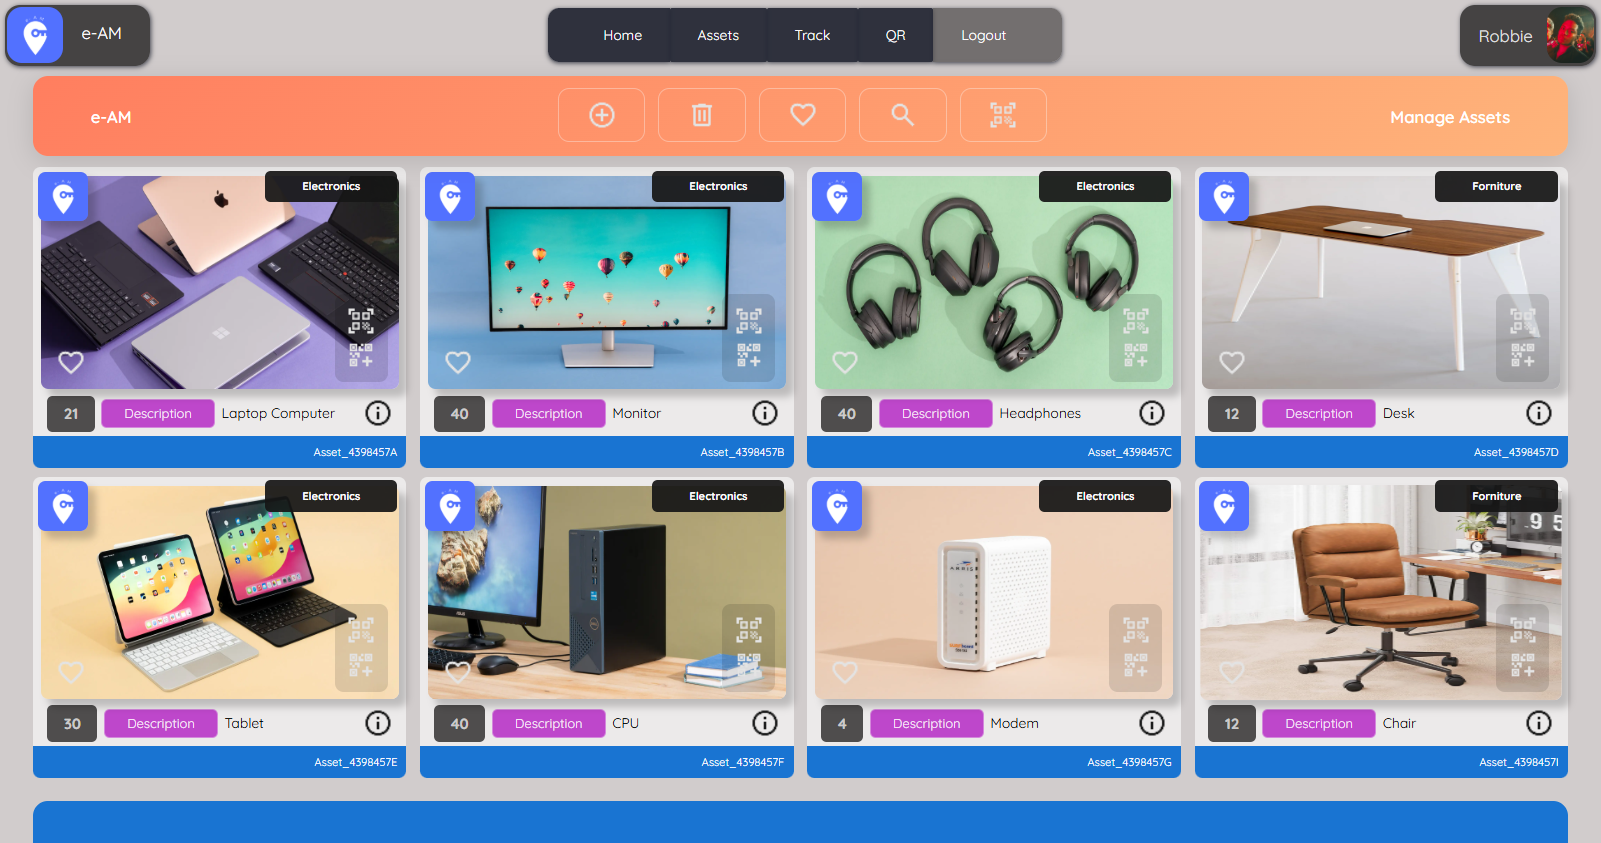
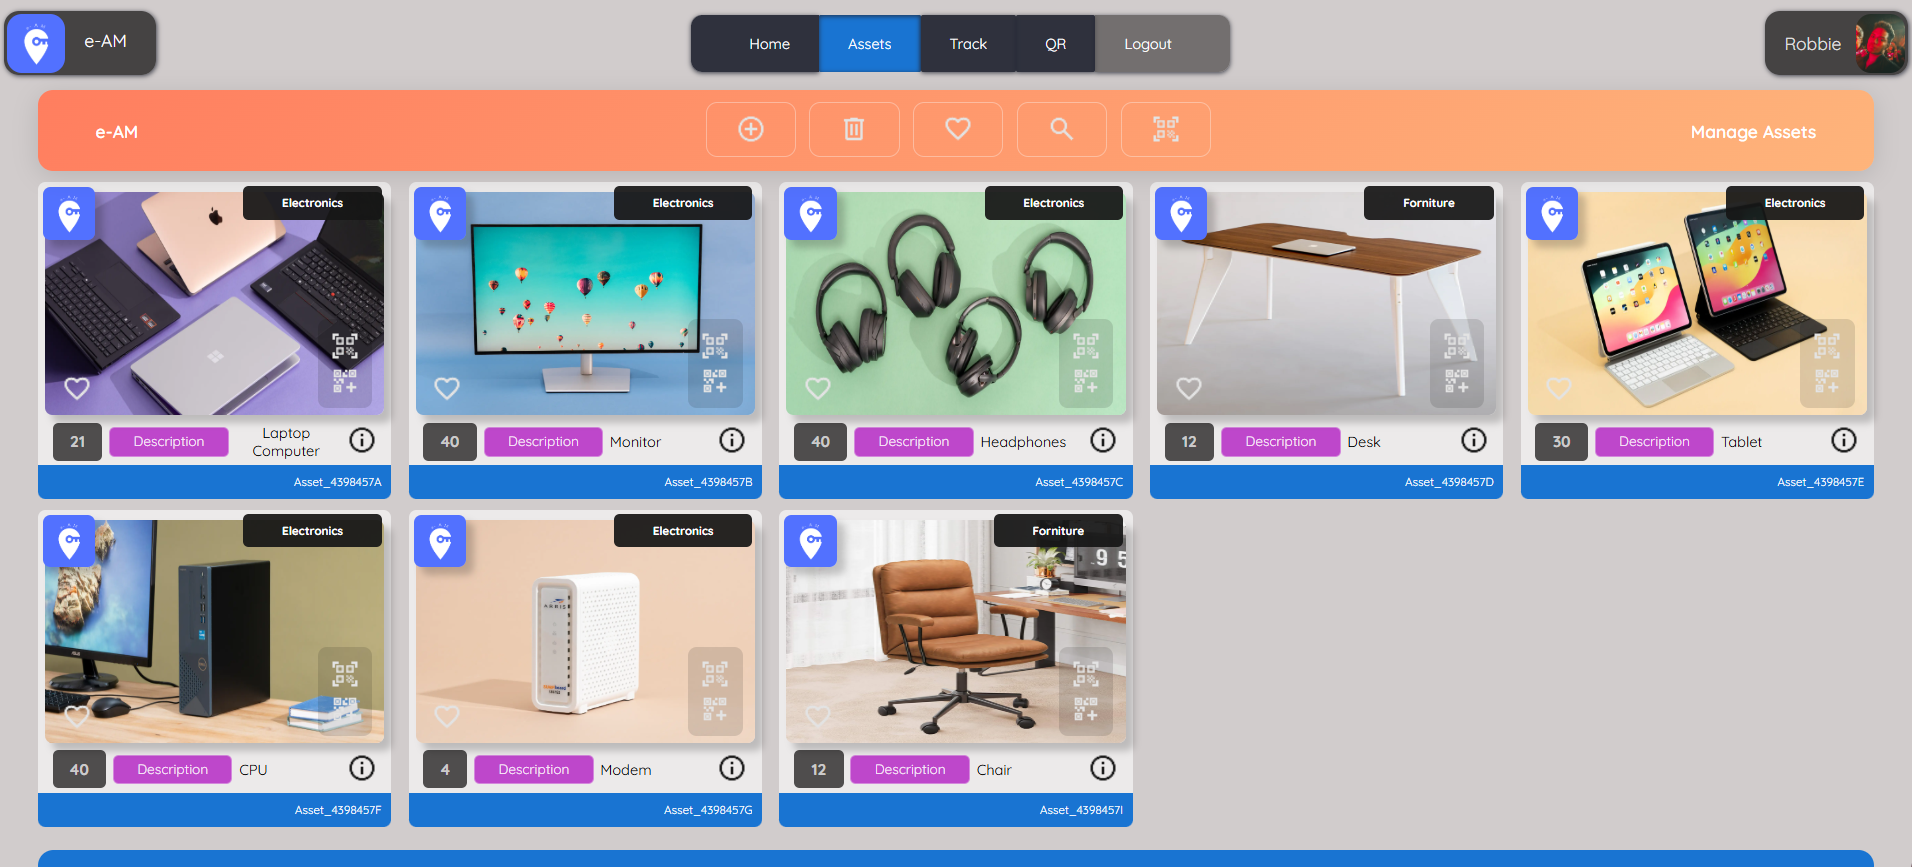
[ FE ] Responsiveness
Assets page, landing page fully responsive live test on mobile

diff --git a/frontend/src/components/pages/items/ItemsPage.scss b/frontend/src/components/pages/items/ItemsPage.scss
@@ -4,17 +4,21 @@
 
 
 .products{ 
+    //> DEFINES THE WHOLE LAY OUT SCALED PADDING
     @include layouts.dynamic_Padding($min_val:1.8%);
 
     &_grid{
-        @include grid.grid_general($min_val:240px,$gap:1.5rem);
+        @include grid.grid_general($min_val:240px, $gap:1.8rem);
         margin-bottom: 3rem;
             //> FOR ELEMENTS TO FIT IN SCREEN
             @include mixins.respond(phone-large){
-                 @include grid.grid_general($min_val:225px,$gap:1.2rem);
+                 @include grid.grid_general($min_val:225px, $gap:1.2rem);
+            }
+            @include mixins.respond(phone){
+                 @include grid.grid_general($min_val:225px, $gap:1.8rem);
             }
             @include mixins.respond(phone-small){
-                 @include grid.grid_general($min_val:198px,$gap:1.2rem);
+                 @include grid.grid_general($min_val:225px, $gap:2.1rem);
             }
 
         &-card{
@@ -25,6 +29,13 @@
             text-align: center;
             color: #fff;
             height: fit-content;
+            max-width: 39rem;
+
+            @include mixins.respond(phone){
+            margin-bottom: 0.5rem;            
+            }
+
+    
         }
     }
 }

diff --git a/frontend/src/components/UI/elements/headers/SubHeader.scss b/frontend/src/components/UI/elements/headers/SubHeader.scss
@@ -15,11 +15,26 @@
     background: linear-gradient(135deg, #ff7e5f, #feb47b);
     transition: all 1s;
     margin-top: -2rem;
-    
+
+    @include mixins.respond(tab-land){
+    margin-top: -1rem;
+   
+    }
     //> CHANGES SIZE OF ELEMENT ori > 15px 30px; [ for mobile  ]
     @include mixins.respond(phone-large){
+    margin-top: 1.5rem;
+
     padding: 15px 30px;
+    flex-direction: column;
+    justify-content: center;
+    flex-wrap: wrap;
     }
+
+    @include mixins.respond(phone){
+    margin-left: 0;
+
+    }
+
 
     &_logo {
         margin: 8px;

diff --git a/frontend/src/components/UI/elements/headers/HeaderFragment.tsx b/frontend/src/components/UI/elements/headers/HeaderFragment.tsx
@@ -5,15 +5,15 @@ const ContextId = "fragmentpictureheader";
[2 lines of base64/hex data omitted]
 export default function HeaderFragment({
-  children,
+  children, 
   _className='fragment',
   _src,
   _id = ContextId,
   _style,
-  _onClick,
+  _onClick, 
   _onCompClick,
   ...rest
-}: _defaultProps) {
+}: _defaultProps) { 
[2 lines of base64/hex data omitted]
 

diff --git a/frontend/src/components/UI/elements/headers/HeaderFragment.scss b/frontend/src/components/UI/elements/headers/HeaderFragment.scss
@@ -1,4 +1,4 @@
-
+@use './../../../../sass/libs/mixins';
 
 .fragment{
     display: flex;
@@ -6,8 +6,26 @@
     justify-content: space-around;
     margin-left: 9rem;
 
+
+    @include mixins.respond(phone){
+    margin-left: 0;
+    justify-content: center;
+    }
+
+   @include mixins.respond(phone-small){
+    margin-left: 0;
+    justify-content: center;
+    flex-wrap: wrap;
+    }
+
     &__wrapper{
         width: 110%;
+
+    @include mixins.respond(phone-small){
+        width: auto;
+        padding: 1rem;
+
+    }
         
     }
 

diff --git a/frontend/src/components/pages/home/sections/Landing_sections.scss b/frontend/src/components/pages/home/sections/Landing_sections.scss
@@ -56,6 +56,8 @@
             }
             //> changes lay out position
             @include mixins.respond(phone){
+                margin-top: -10rem;
+                padding-top: 0;
                 max-width: 40rem;
                 width: 100%;
             }

diff --git a/frontend/src/components/UI/elements/menu/static/TopNavigator.scss b/frontend/src/components/UI/elements/menu/static/TopNavigator.scss
@@ -4,6 +4,8 @@
 
 .top-nav {
   @include layout-elements.top_nav();
+  margin-top: 1.2rem;
+
       //> CHANGE ARRAGE POSITION OF ELEMENTS
       @include mixins.respond(phone-large){
       justify-content: space-around;

diff --git a/frontend/src/sass/base/_page.scss b/frontend/src/sass/base/_page.scss
@@ -14,6 +14,8 @@
 html,
 body {
   overflow-x: hidden;
+  scrollbar-width: none;
+  --me-overflow-style:none;
   //min-height: vars.$default-body-height; //> DEFAULT HEIGHT
 }
 html {

diff --git a/README.md b/README.md
@@ -32,16 +32,14 @@ This application uses QR based tecnology in order to create catalogs over a simp
 
 
 > Some from the React.js / SASS Front_end UI
-![alt text](frontend/public/media/landing_page_One.png)
 ![alt text](frontend/public/media/side_nav_bar.png)
 
 >UI Remake
-<video src="frontend/src/assets/videos/Landing_UI_shot_01.mp4" title="Title"></video>
+
 ![alt text](frontend/public/media/UI_remake_desk.png)
 ![alt text](frontend/public/media/branding_page_one.png)
+![alt text](frontend/public/media/Assets_page_UI.png)
 ![alt text](frontend/public/media/IU_remake_tablet.png)
-![alt text](frontend/public/media/assets_page_UI.png)
-
 
 > Dedicated Media
 ![alt text](frontend/public/media/branding_two.png)
